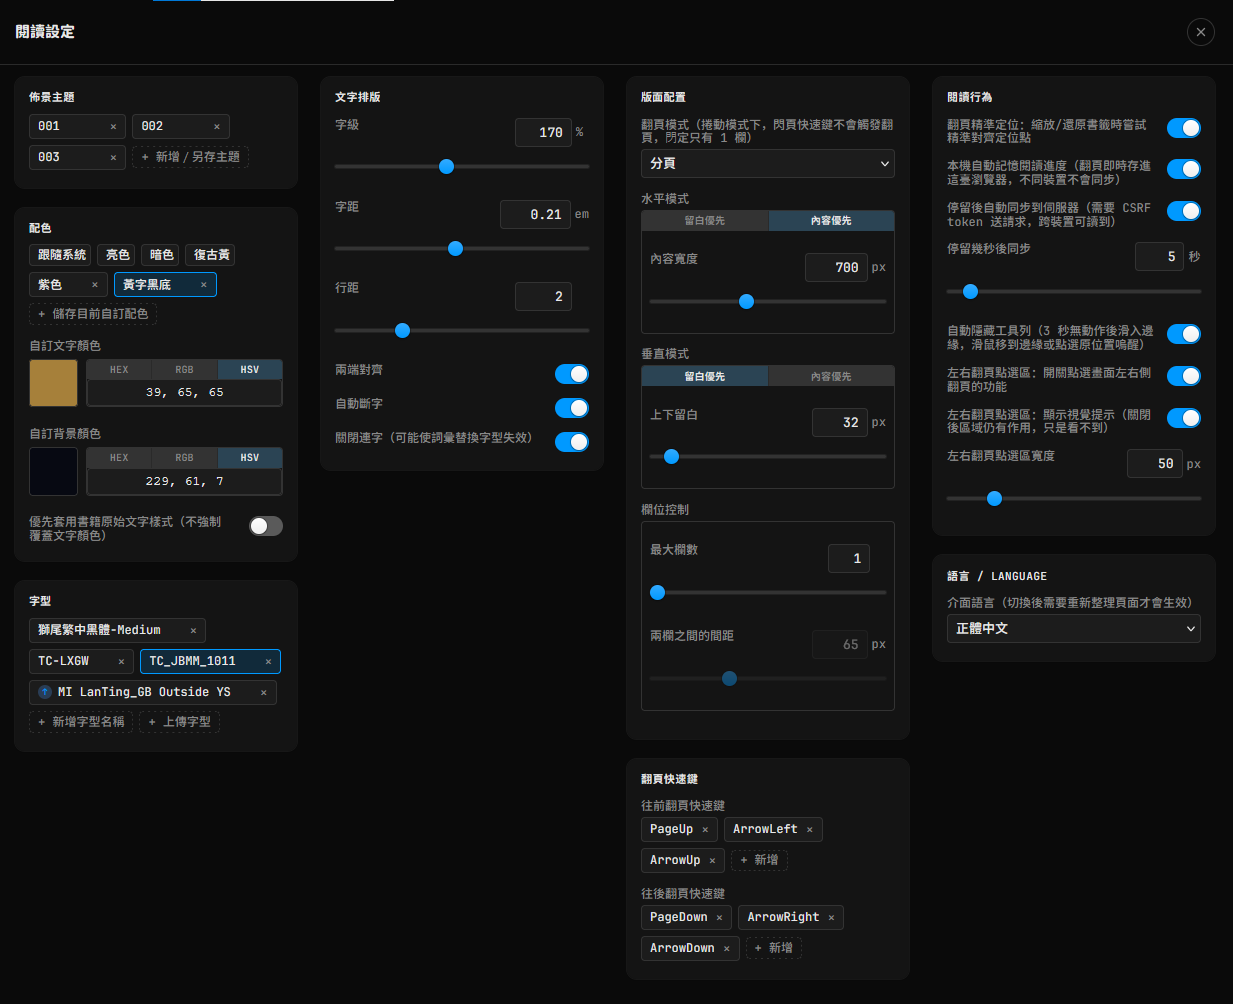
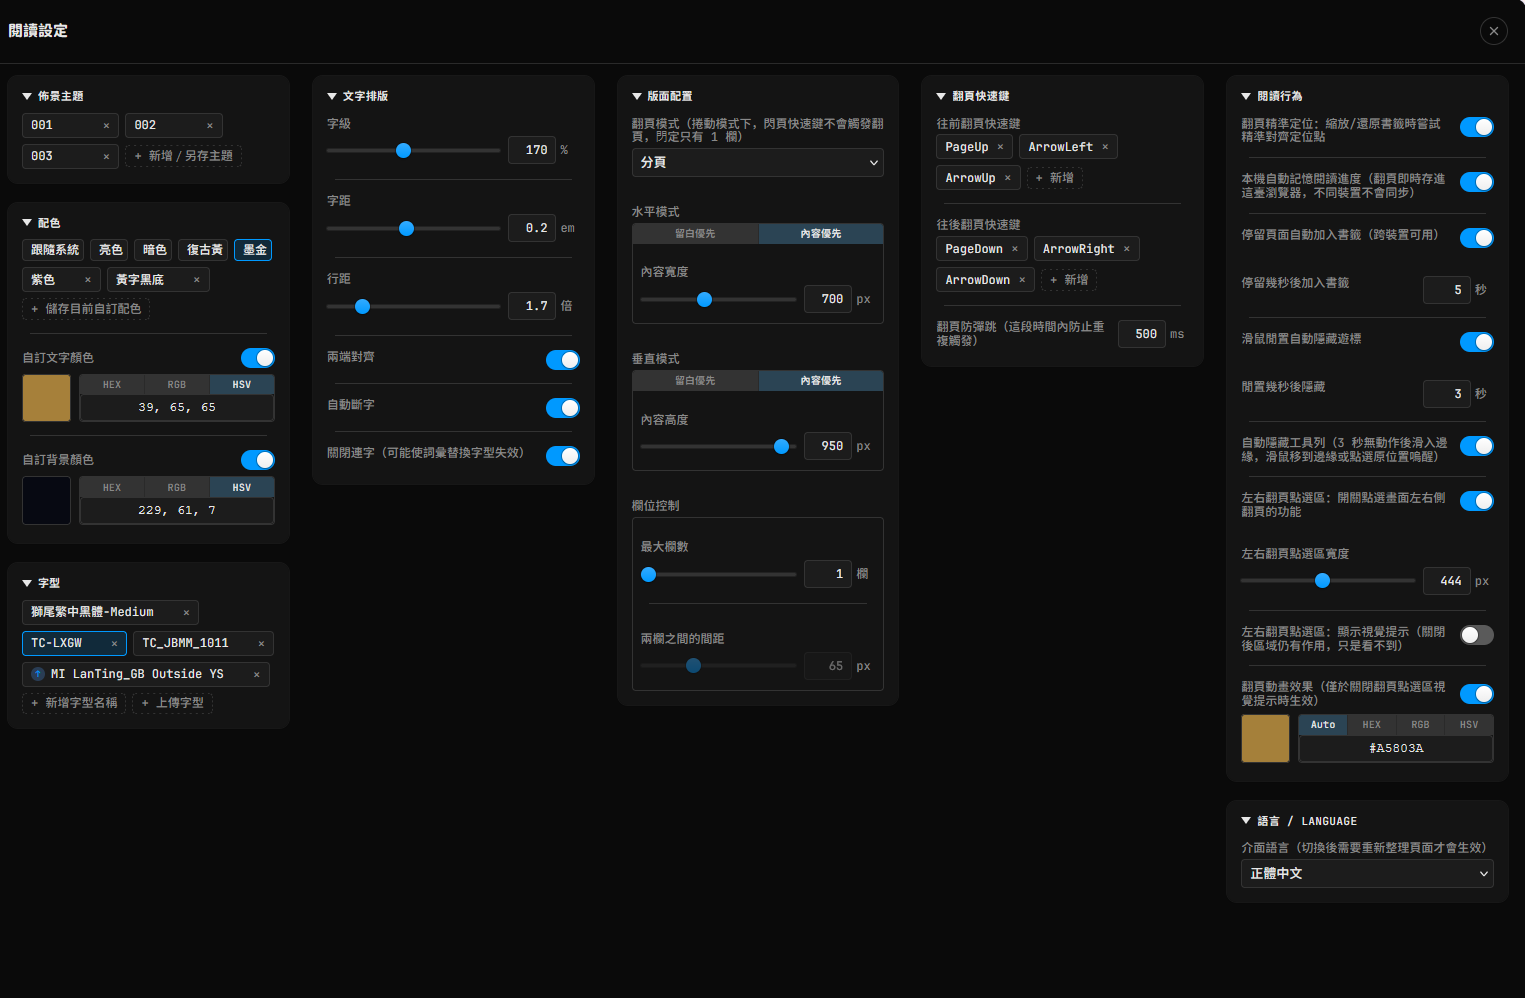
docs: 英文版改為預設 README，中文版移至 README.zh.md；更新截圖

diff --git a/README.md b/README.md
@@ -1,43 +1,43 @@
 # calibre-web-foliate-mod
 
-&nbsp;&nbsp;[English](README.en.md)
+&nbsp;&nbsp;[繁體中文](README.zh.md)
 
-一支 Tampermonkey 使用者腳本，把 Calibre-Web 內建、基於 epub.js 的閱讀器，換成自己包裝的 [foliate-js](https://github.com/johnfactotum/foliate-js) 閱讀器。介面支援繁體中文／英文，依瀏覽器語言自動切換，設定裡也可以手動指定。
+A Tampermonkey userscript that replaces Calibre-Web's built-in, epub.js-based reader with a self-packaged [foliate-js](https://github.com/johnfactotum/foliate-js) reader. The interface supports Traditional Chinese and English, switching automatically based on your browser's language, with a manual override available in the settings.
 
-![設定面板（繁體中文）](docs/screenshot_zh.png)
+![Settings panel (English)](docs/screenshot_en.png)
 
-## 這是為了什麼寫的
+## Why this exists
 
-Calibre-Web 內建的 epub.js 閱讀器，排版控制項有限（字級、字距、行距、留白這些細部排版選項都沒有或不夠精準），介面樣式也沒辦法自訂。這支腳本在不改動 Calibre-Web 伺服器端程式碼的前提下，用 Tampermonkey 在瀏覽器端把閱讀器整個換掉，改用排版控制更細緻、可以深度自訂外觀的 foliate-js，同時盡量保留 Calibre-Web 原本的書籤同步、閱讀進度這些既有機制，讓使用者原本習慣的操作方式（書籤、進度）維持不變，只是排版引擎跟介面換了。
+Calibre-Web's built-in epub.js reader has limited typography controls (font size, letter spacing, line spacing, and margins are either missing or imprecise), and its interface can't be customized. Without touching Calibre-Web's server-side code, this script uses Tampermonkey to swap out the reader entirely on the browser side, replacing it with foliate-js, which offers much finer typography control and deep visual customization — while keeping Calibre-Web's existing bookmark sync and reading-progress mechanisms intact, so your usual workflow (bookmarks, progress) stays the same; only the rendering engine and interface change.
 
-## 有什麼特別的功能
+## Features
 
-- **細部排版控制**：字級（最大到 300%）、字距（最大到 0.5em）、行距（最大到 5 倍）、左右對齊、斷字，都可以獨立調整並即時套用。
-- **留白優先／內容優先**：水平、垂直方向各自獨立選擇——留白優先是設定固定的留白值；內容優先是設定固定的內容寬／高度，留白自動吸收可視範圍變動的差額，切換全螢幕/一般模式時內容區大小維持一致。
-- **欄位控制**：分頁模式下最大欄數、兩欄之間的間距（捲動模式下強制鎖定為 1 欄，這兩項會自動停用）。
-- **佈景主題**：內建跟隨系統、亮色、暗色、復古黃四種固定主題，也可以把目前的排版設定另存成自訂主題，多組主題可以拖曳排序、可以用目前設定覆蓋更新既有主題。
-- **自訂配色**：文字顏色跟背景顏色可以分別用 HEX / RGB / HSV 三種格式輸入（也有一個自製的取色器可以用滑鼠選色），配色組合可以另存多組、拖曳排序。
-- **字型管理**：可以手動輸入系統已安裝的字型名稱，也可以直接上傳字型檔案（.ttf / .otf / .woff）嵌入使用，字型名稱清單一樣支援拖曳排序。
-- **左右翻頁點擊區**：畫面左右兩側可以設定點擊感應區，點擊觸發往前/往後翻頁；感應區的啟用（能不能點）跟顯示（看不看得到）是分開的兩個開關，感應區寬度可以自訂像素值；捲動模式下這個功能沒有意義，會自動停用。
-- **自動隱藏工具列**：閱讀時工具列跟進度條可以在幾秒無動作後自動滑出畫面，滑鼠移到邊緣或點擊即可喚醒。
-- **翻頁快速鍵**：往前/往後翻頁的鍵盤快速鍵可以自訂，每個方向可以錄製不只一組按鍵組合。
-- **書籤與進度**：沿用 Calibre-Web 原本的伺服器端書籤機制；另外本機也會自動記住閱讀進度（每次翻頁即時記），可以設定閱讀停留超過一段時間後自動同步回伺服器書籤。
-- **翻頁精準定位**（實驗性功能，預設關閉）：調整排版設定或縮放視窗時，盡量把目前閱讀到的那一行文字精準對齊到新版面的頁首，減少畫面跳動或閱讀位置跑掉的情況；捲動模式下沒有「頁首」這個概念，會自動停用。
-- **雙語介面**：預設依瀏覽器判斷顯示繁體中文或英文，也可以在設定裡手動指定（切換後需要重新整理頁面才會生效）。
+- **Fine-grained typography**: font size (up to 300%), letter spacing (up to 0.5em), line spacing (up to 5X), justification, and hyphenation — all independently adjustable and applied instantly.
+- **Margin Priority / Content Priority**: independently selectable for the horizontal and vertical axes. Margin Priority sets a fixed margin value; Content Priority sets a fixed content width/height, with the margin automatically absorbing any change in available space — content size stays consistent when toggling fullscreen.
+- **Column control**: max columns and gap between columns in paginated mode (locked to 1 column in scroll mode; these two settings are automatically disabled there).
+- **Themes**: four built-in themes (Follow System, Light, Dark, Sepia), plus the ability to save your current typography settings as a custom theme. Multiple themes can be reordered by drag-and-drop, and an existing theme can be overwritten with your current settings.
+- **Custom colors**: text and background colors can each be entered in HEX / RGB / HSV format (a built-in color picker is also available), with color schemes savable and reorderable by drag-and-drop.
+- **Font management**: manually enter the name of a font already installed on your system, or upload a font file (.ttf / .otf / .woff) directly; the font list also supports drag-and-drop reordering.
+- **Left/right tap zones**: click zones on either edge of the screen for previous/next page navigation. Enabling the zone (click-to-page) and showing its visual hint are separate toggles; zone width is configurable in pixels. This feature is meaningless in scroll mode and is automatically disabled there.
+- **Auto-hide toolbar**: the toolbar and progress bar can slide out of view after a few seconds of inactivity while reading, and wake up on hover or click.
+- **Page-turn shortcuts**: customizable keyboard shortcuts for previous/next page, with multiple key combinations recordable per direction.
+- **Bookmarks and progress**: uses Calibre-Web's existing server-side bookmark mechanism; reading progress is also remembered locally (saved instantly on every page turn), with an option to auto-sync back to the server bookmark after a configurable idle period.
+- **Precise page alignment** (experimental, off by default): when adjusting typography settings or resizing the window, attempts to precisely align the currently-read line to the top of the new layout, reducing visual jumps or lost reading position. There's no "top of page" concept in scroll mode, so this is automatically disabled there.
+- **Bilingual interface**: defaults to Traditional Chinese or English based on your browser, with a manual override available in settings (requires a page reload to take effect).
 
-## 安裝需求
+## Requirements
 
-需要安裝 [Tampermonkey](https://www.tampermonkey.net/) 瀏覽器擴充功能（Chrome、Firefox、Edge 等主流瀏覽器皆可）。前往上面連結，依照頁面上針對你使用的瀏覽器提供的安裝步驟操作即可，一般穩定版本就可以正常運作。
+You'll need the [Tampermonkey](https://www.tampermonkey.net/) browser extension (works with Chrome, Firefox, Edge, and other major browsers). Visit the link above and follow the installation steps shown for your specific browser — the regular stable release works fine.
 
-## 使用方式
+## Usage
 
-1. 安裝 Tampermonkey（見上）。
-2. 安裝這支腳本：[calibre-web-foliate-mod.user.js](https://cdn.jsdelivr.net/gh/bgtsai/calibre-web-foliate-mod@main/calibre-web-foliate-mod.user.js)
-3. 在 Calibre-Web 開啟任一本 EPUB，閱讀器會自動替換成 foliate-js 版本，右上角齒輪圖示可以開啟排版設定面板。
+1. Install Tampermonkey (see above).
+2. Install this script: [calibre-web-foliate-mod.user.js](https://cdn.jsdelivr.net/gh/bgtsai/calibre-web-foliate-mod@main/calibre-web-foliate-mod.user.js)
+3. Open any EPUB in Calibre-Web — the reader will automatically switch to the foliate-js version. Click the gear icon in the top-right corner to open the typography settings panel.
 
-## 介面語言顯示不符預期？
+## Interface language not as expected?
 
-介面預設依瀏覽器回報的「網頁內容偏好語言」自動判斷（開頭是 `zh` 就顯示繁體中文，其他一律顯示英文）。這組設定跟瀏覽器本身的**介面顯示語言**（選單、按鈕這些）是兩個各自獨立、可以不一樣的設定——瀏覽器介面是中文，不代表這組「網頁內容語言」也一定是中文。如果自動判斷的結果不是你要的，可以：
+The interface defaults to Traditional Chinese or English based on your browser's reported "preferred language for web content" — if it starts with `zh`, Chinese is shown; otherwise English. This setting is independent of your browser's own UI language (menus, buttons, etc.) — a browser with a Chinese interface doesn't necessarily report Chinese as the preferred web content language. If the auto-detected result isn't what you want, you can:
 
-- 到設定面板最下方的「語言 / Language」分組，手動指定要顯示的語言（切換後需要重新整理頁面才會生效）；或
-- 調整瀏覽器本身「網頁內容偏好語言」的設定（以 Firefox 為例：設定 → 一般 → 語言 → 選擇偏好語言以顯示網頁，把繁體中文排到清單最上面）。
+- Go to the "語言 / Language" section at the bottom of the settings panel and manually set the display language (a page reload is required for the change to take effect); or
+- Adjust your browser's "preferred language for web content" setting (in Firefox: Settings → General → Language → Choose your preferred language for displaying pages, and move Traditional Chinese to the top of the list).

diff --git a/README.zh.md b/README.zh.md
@@ -1,0 +1,43 @@
+# calibre-web-foliate-mod
+
+&nbsp;&nbsp;[English](README.md)
+
+一支 Tampermonkey 使用者腳本，把 Calibre-Web 內建、基於 epub.js 的閱讀器，換成自己包裝的 [foliate-js](https://github.com/johnfactotum/foliate-js) 閱讀器。介面支援繁體中文／英文，依瀏覽器語言自動切換，設定裡也可以手動指定。
+
+![設定面板（繁體中文）](docs/screenshot_zh.png)
+
+## 這是為了什麼寫的
+
+Calibre-Web 內建的 epub.js 閱讀器，排版控制項有限（字級、字距、行距、留白這些細部排版選項都沒有或不夠精準），介面樣式也沒辦法自訂。這支腳本在不改動 Calibre-Web 伺服器端程式碼的前提下，用 Tampermonkey 在瀏覽器端把閱讀器整個換掉，改用排版控制更細緻、可以深度自訂外觀的 foliate-js，同時盡量保留 Calibre-Web 原本的書籤同步、閱讀進度這些既有機制，讓使用者原本習慣的操作方式（書籤、進度）維持不變，只是排版引擎跟介面換了。
+
+## 有什麼特別的功能
+
+- **細部排版控制**：字級（最大到 300%）、字距（最大到 0.5em）、行距（最大到 5 倍）、左右對齊、斷字，都可以獨立調整並即時套用。
+- **留白優先／內容優先**：水平、垂直方向各自獨立選擇——留白優先是設定固定的留白值；內容優先是設定固定的內容寬／高度，留白自動吸收可視範圍變動的差額，切換全螢幕/一般模式時內容區大小維持一致。
+- **欄位控制**：分頁模式下最大欄數、兩欄之間的間距（捲動模式下強制鎖定為 1 欄，這兩項會自動停用）。
+- **佈景主題**：內建跟隨系統、亮色、暗色、復古黃四種固定主題，也可以把目前的排版設定另存成自訂主題，多組主題可以拖曳排序、可以用目前設定覆蓋更新既有主題。
+- **自訂配色**：文字顏色跟背景顏色可以分別用 HEX / RGB / HSV 三種格式輸入（也有一個自製的取色器可以用滑鼠選色），配色組合可以另存多組、拖曳排序。
+- **字型管理**：可以手動輸入系統已安裝的字型名稱，也可以直接上傳字型檔案（.ttf / .otf / .woff）嵌入使用，字型名稱清單一樣支援拖曳排序。
+- **左右翻頁點擊區**：畫面左右兩側可以設定點擊感應區，點擊觸發往前/往後翻頁；感應區的啟用（能不能點）跟顯示（看不看得到）是分開的兩個開關，感應區寬度可以自訂像素值；捲動模式下這個功能沒有意義，會自動停用。
+- **自動隱藏工具列**：閱讀時工具列跟進度條可以在幾秒無動作後自動滑出畫面，滑鼠移到邊緣或點擊即可喚醒。
+- **翻頁快速鍵**：往前/往後翻頁的鍵盤快速鍵可以自訂，每個方向可以錄製不只一組按鍵組合。
+- **書籤與進度**：沿用 Calibre-Web 原本的伺服器端書籤機制；另外本機也會自動記住閱讀進度（每次翻頁即時記），可以設定閱讀停留超過一段時間後自動同步回伺服器書籤。
+- **翻頁精準定位**（實驗性功能，預設關閉）：調整排版設定或縮放視窗時，盡量把目前閱讀到的那一行文字精準對齊到新版面的頁首，減少畫面跳動或閱讀位置跑掉的情況；捲動模式下沒有「頁首」這個概念，會自動停用。
+- **雙語介面**：預設依瀏覽器判斷顯示繁體中文或英文，也可以在設定裡手動指定（切換後需要重新整理頁面才會生效）。
+
+## 安裝需求
+
+需要安裝 [Tampermonkey](https://www.tampermonkey.net/) 瀏覽器擴充功能（Chrome、Firefox、Edge 等主流瀏覽器皆可）。前往上面連結，依照頁面上針對你使用的瀏覽器提供的安裝步驟操作即可，一般穩定版本就可以正常運作。
+
+## 使用方式
+
+1. 安裝 Tampermonkey（見上）。
+2. 安裝這支腳本：[calibre-web-foliate-mod.user.js](https://cdn.jsdelivr.net/gh/bgtsai/calibre-web-foliate-mod@main/calibre-web-foliate-mod.user.js)
+3. 在 Calibre-Web 開啟任一本 EPUB，閱讀器會自動替換成 foliate-js 版本，右上角齒輪圖示可以開啟排版設定面板。
+
+## 介面語言顯示不符預期？
+
+介面預設依瀏覽器回報的「網頁內容偏好語言」自動判斷（開頭是 `zh` 就顯示繁體中文，其他一律顯示英文）。這組設定跟瀏覽器本身的**介面顯示語言**（選單、按鈕這些）是兩個各自獨立、可以不一樣的設定——瀏覽器介面是中文，不代表這組「網頁內容語言」也一定是中文。如果自動判斷的結果不是你要的，可以：
+
+- 到設定面板最下方的「語言 / Language」分組，手動指定要顯示的語言（切換後需要重新整理頁面才會生效）；或
+- 調整瀏覽器本身「網頁內容偏好語言」的設定（以 Firefox 為例：設定 → 一般 → 語言 → 選擇偏好語言以顯示網頁，把繁體中文排到清單最上面）。
